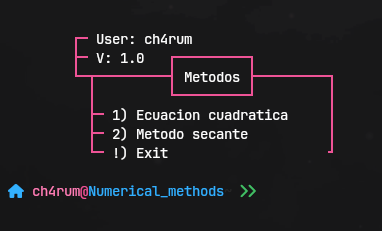
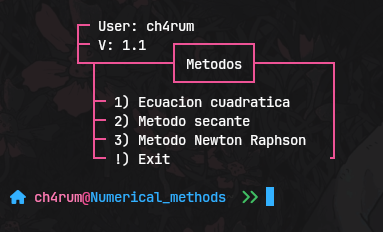
New Newton-Raphson method

Changed region(s): [[0.1728, 0.0909, 0.8927, 0.7273], [0.0, 0.7879, 0.6047, 0.8788], [0.6335, 0.7879, 0.7199, 0.9091]]

diff --git a/Python/algNumeric/Menu.py b/Python/algNumeric/Menu.py
@@ -2,12 +2,13 @@
 import os
 from algoritmEc import *
 from colorama import Fore, Style, init
+from prettytable import PrettyTable
 
 class Menus:
 
     def __init__(self: 'Menus') -> None:
         self.pc_user = os.getlogin()
-        self.THIS_VERSION = 1.0
+        self.THIS_VERSION = 1.1
         self.ecuacion = AlgoritmEc()
         self.ecuacionDATA = [0]*(3)
 
@@ -19,6 +20,7 @@ class Menus:
           {Fore.RED}│         └─────────┘         │   
           {Fore.RED}├─ {Fore.LIGHTWHITE_EX}1) Ecuacion cuadratica     {Fore.RED}│
           {Fore.RED}├─ {Fore.LIGHTWHITE_EX}2) Metodo secante          {Fore.RED}│
+          {Fore.RED}├─ {Fore.LIGHTWHITE_EX}3) Metodo Newton Raphson   {Fore.RED}│
           {Fore.RED}└─ {Fore.LIGHTWHITE_EX}!) Exit                    {Fore.RED}┘
           """
         print(options)
@@ -30,6 +32,7 @@ class Menus:
                 options = {
                     '1': self.tecnic_cuadratica,
                     '2': self.tecnic_Secante,
+                    '3': self.tecnic_newton_raphson,
                     '!': exit
                 }
                 chosen = options.get(choice)
@@ -62,7 +65,7 @@ class Menus:
         print()
         while True:
             try:
-                return int(input("[+] Rango ha iterar?:> "))
+                return int(input("[+] Rango maximo ha iterar?:> "))
             except Exception as e:
                 continue
             
@@ -72,8 +75,32 @@ class Menus:
             self.ecuacionDATAf()
             range = self.range_iter()
             x = self.ecuacion.tecnic_Secante(self.ecuacionDATA, range)
-            for values in x:
-                print(f"\n[+] {values}")
+            table = PrettyTable()
+            table.field_names = x[0].keys()
+            print()
+            for row in x:
+                table.add_row([round(values, 6) if isinstance(values, float) else values for values in row.values()])
+            print(table)
+        except Exception as e:
+            print("\n", e, "\n")
+
+    def aprox_init(self: 'Menus') -> tuple[float]:
+        print()
+        while True:
+            try:
+                return float(input("[+] Dias aproximacion inicial: ")), float(input("[+] Tolerancia al error: "))
+            except Exception as e:
+                continue
+
+    def tecnic_newton_raphson(self: 'Menus') -> None:
+        try:
+            result = self.ecuacion.tecnic_newton_raphson(self.aprox_init(), self.range_iter())
+            table = PrettyTable()
+            table.field_names = result[0].keys()
+            print()
+            for row in result:
+                table.add_row([round(values, 6) if isinstance(values, float) else values for values in row.values()])
+            print(table)
         except Exception as e:
             print("\n", e, "\n")
 

diff --git a/Python/algNumeric/algoritmEc.py b/Python/algNumeric/algoritmEc.py
@@ -15,8 +15,14 @@ class AlgoritmEc:
             return self.x1, self.x2
         raise ValueError("[x] Error!, no real roots, discriminant < to 0.")
 
-    def f(self, x:float) -> float:
+    def f(self: 'AlgoritmEc', x:float) -> float:
         return self.aBC[0] * x**2 + self.aBC[1] * x - self.aBC[2]
+
+    def fn(self: 'AlgoritmEc', t: float) -> float:
+        return 3 * math.exp(0.68*t) - 1100*t
+
+    def f_prime(self: 'AlgoritmEc', t: float) -> float:
+        return 2.04 * math.exp(0.68*t) - 1100
 
     def valuesAB(self:'AlgoritmEc') -> None:
         print()
@@ -59,4 +65,27 @@ class AlgoritmEc:
                 raise ValueError("[x] Error relativo alcanzado.")
 
             self.x0, self.x1 = self.x1, self.x2
+        return iterations
+
+    def tecnic_newton_raphson(self, parameter: tuple[float], max_iter:int = 100) -> list[dict[str, float]]:
+        t0 = parameter[0]
+        iterations = list()
+        for i in range(1, max_iter+1):
+            ft = self.fn(t0)
+            fpt = self.f_prime(t0)
+            t1 = t0 - ft / fpt
+
+            error_r = abs((t1-t0)/t1)
+
+            iterations.append({
+                "iteration": i,
+                "t_i-1": t0,
+                "f(t_i-1)": ft,
+                "f\'(t_i-1)": fpt,
+                "t_i": t1,
+                "e_r_norm": error_r
+            })
+            if error_r < parameter[1]:
+                break
+            t0 = t1
         return iterations

diff --git a/Python/algNumeric/CHANGELOG.md b/Python/algNumeric/CHANGELOG.md
@@ -1,0 +1,44 @@
+---
+
+## Newton-Raphson Method Update & Impression Enhancement
+
+##### November 20, 2024
+
+| <img src="./srcRun.png" alt="New Method" width="550"> |
+| :--------------------------------------------------------------------------------------------------------------------------------: |
+|                                                               New Method                                                    |
+
+### Update Description:
+1. **Implementation of the Newton-Raphson Method:**
+   - The `tecnic_newton_raphson` method has been added, which applies the Newton-Raphson algorithm to find the root of an equation by iterations.
+   - This method takes as parameters an initial approximation value (a tuple) and the maximum number of iterations.
+   - The algorithm iteratively computes the value of the root of the function using the derivatives, until the relative error is less than a specified threshold.
+   - The method returns a list of dictionaries with the results of each iteration.
+   - The method terminates if the error is less than the specified threshold or if the maximum number of iterations is reached.
+
+2. **Improved Results Printing:**
+   - The `tecnic_newton_raphson` function has been added to print the results in a clearer and more understandable way, using a formatted table.
+   - The results are presented in a results table using the PrettyTable library, which organizes the data in a structured way.
+   - The code now displays the values for each iteration with higher precision (rounded to 6 decimal places).
+   - If any errors occur during the process, a detailed error message is displayed to improve debugging.
+
+> [!WARNING]
+> The functions are evaluated in formulas already defined in the code, change the part of the code if needed.
+>
+> ```python3
+>    def fn(self: 'AlgoritmEc', t: float) -> float:
+>        return 3 * math.exp(0.68*t) - 1100*t 
+>
+>    def f_prime(self: 'AlgoritmEc', t: float) -> float:
+>        return 2.04 * math.exp(0.68*t) - 1100
+>```
+
+### Install new dependency:
+Make sure you have the *PrettyTable* library installed for the table formatting to work properly. You can install it by running 
+```shell
+# In windows & some linux
+pip install prettytable
+
+# In Arch & some derivate
+sudo pacman -S --noconfirm python-prettytable
+```

diff --git a/Python/algNumeric/README.md b/Python/algNumeric/README.md
@@ -4,6 +4,7 @@
 
 &ensp;[<kbd> <br> Usage <br> </kbd>](#-usage)&ensp;
 &ensp;[<kbd> <br> Features <br> </kbd>](#-feature)&ensp;
+&ensp;[<kbd> <br> Changelog <br> </kbd>](https://github.com/ch4rum/ProgrammingExer/blob/master/Python/algNumeric/CHANGELOG.md)&ensp;
 <br></div>
 
 ## 👾 Feature
@@ -12,7 +13,9 @@
 This $Python$ code provides a comprehensive visual experience for understanding how different numerical methods approximate the root of a quadratic function. By implementing the methods, the code allows users to observe how each technique adjusts its estimate at each iteration, illustrating intermediate calculations and convergence to the final solution. This helps to compare the methods and better understand the refinement process at each step, providing clear context on the behavior of each approach and allowing users to visualize progress toward the desired solution.
 
 > [!CAUTION]
-> The function is evaluated at $ax²+bx-c$ by secant method, change if necessary.
+> The functions are evaluated in formulas already defined in the code depending on the method used, change the part of the code if needed. 
+
+Check the [changelog](https://github.com/ch4rum/ProgrammingExer/blob/master/Python/algNumeric/CHANGELOG.md) for updates.
 
 ## 💻 Usage
 
